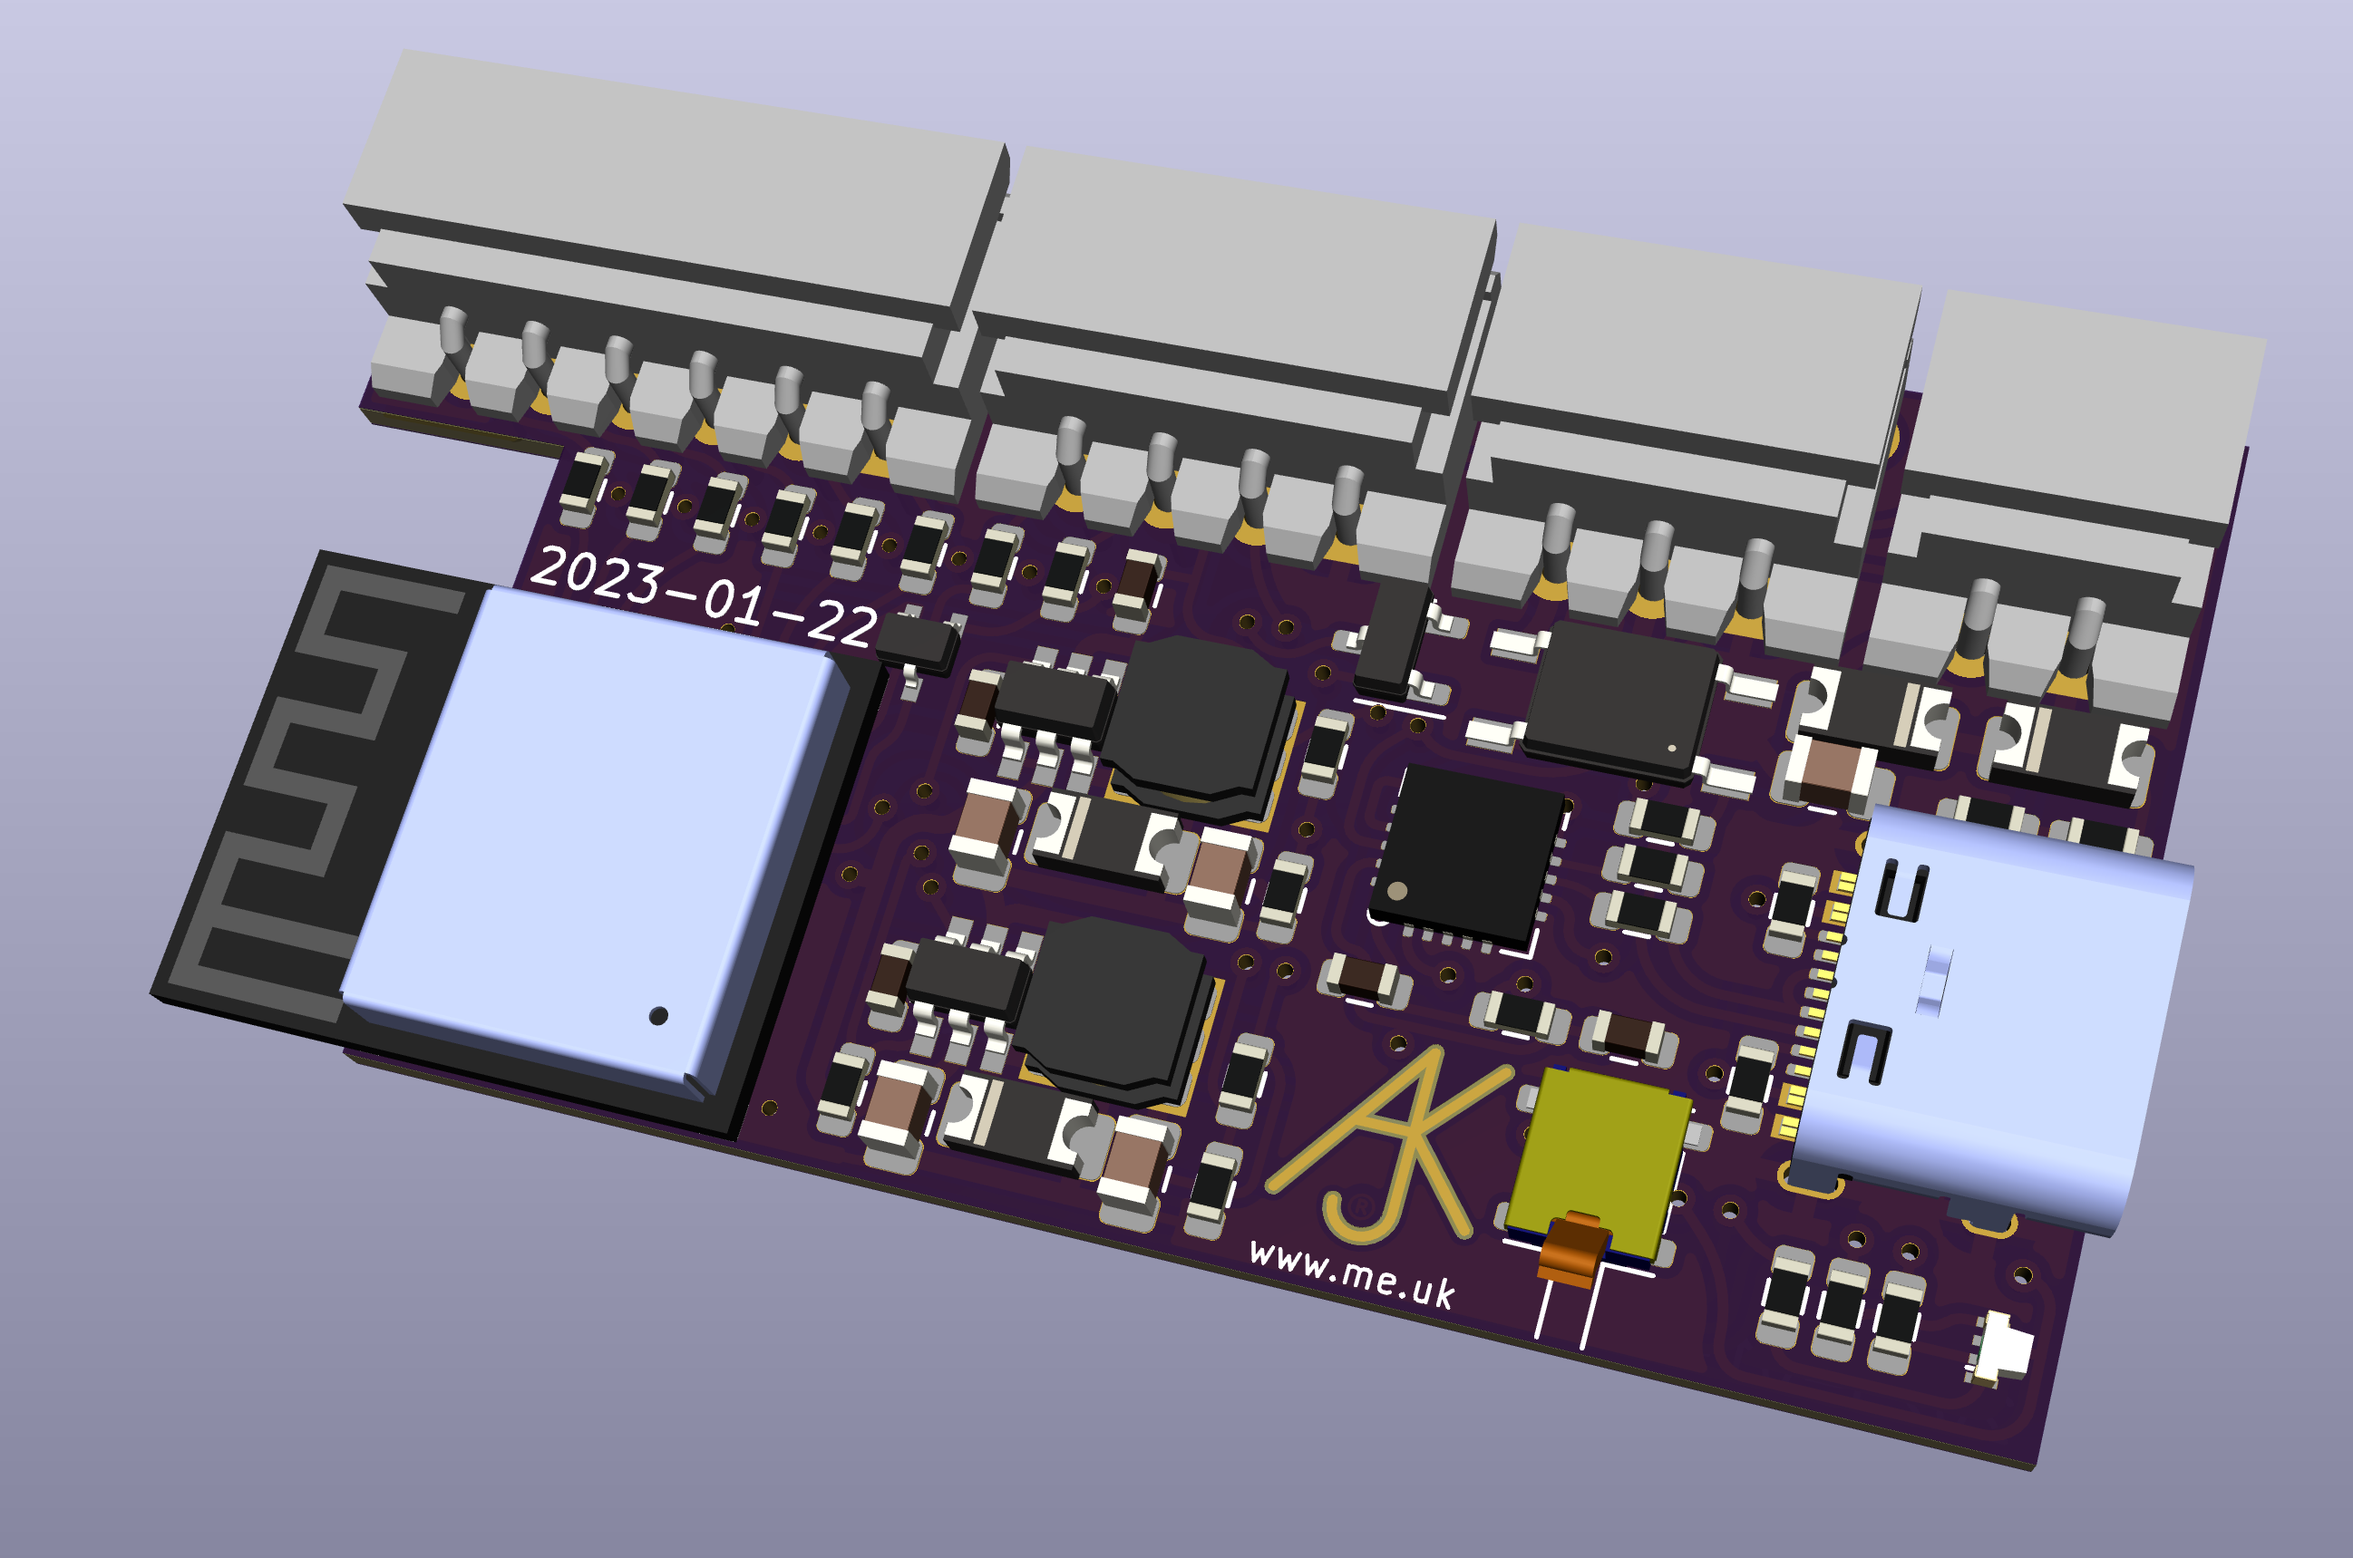
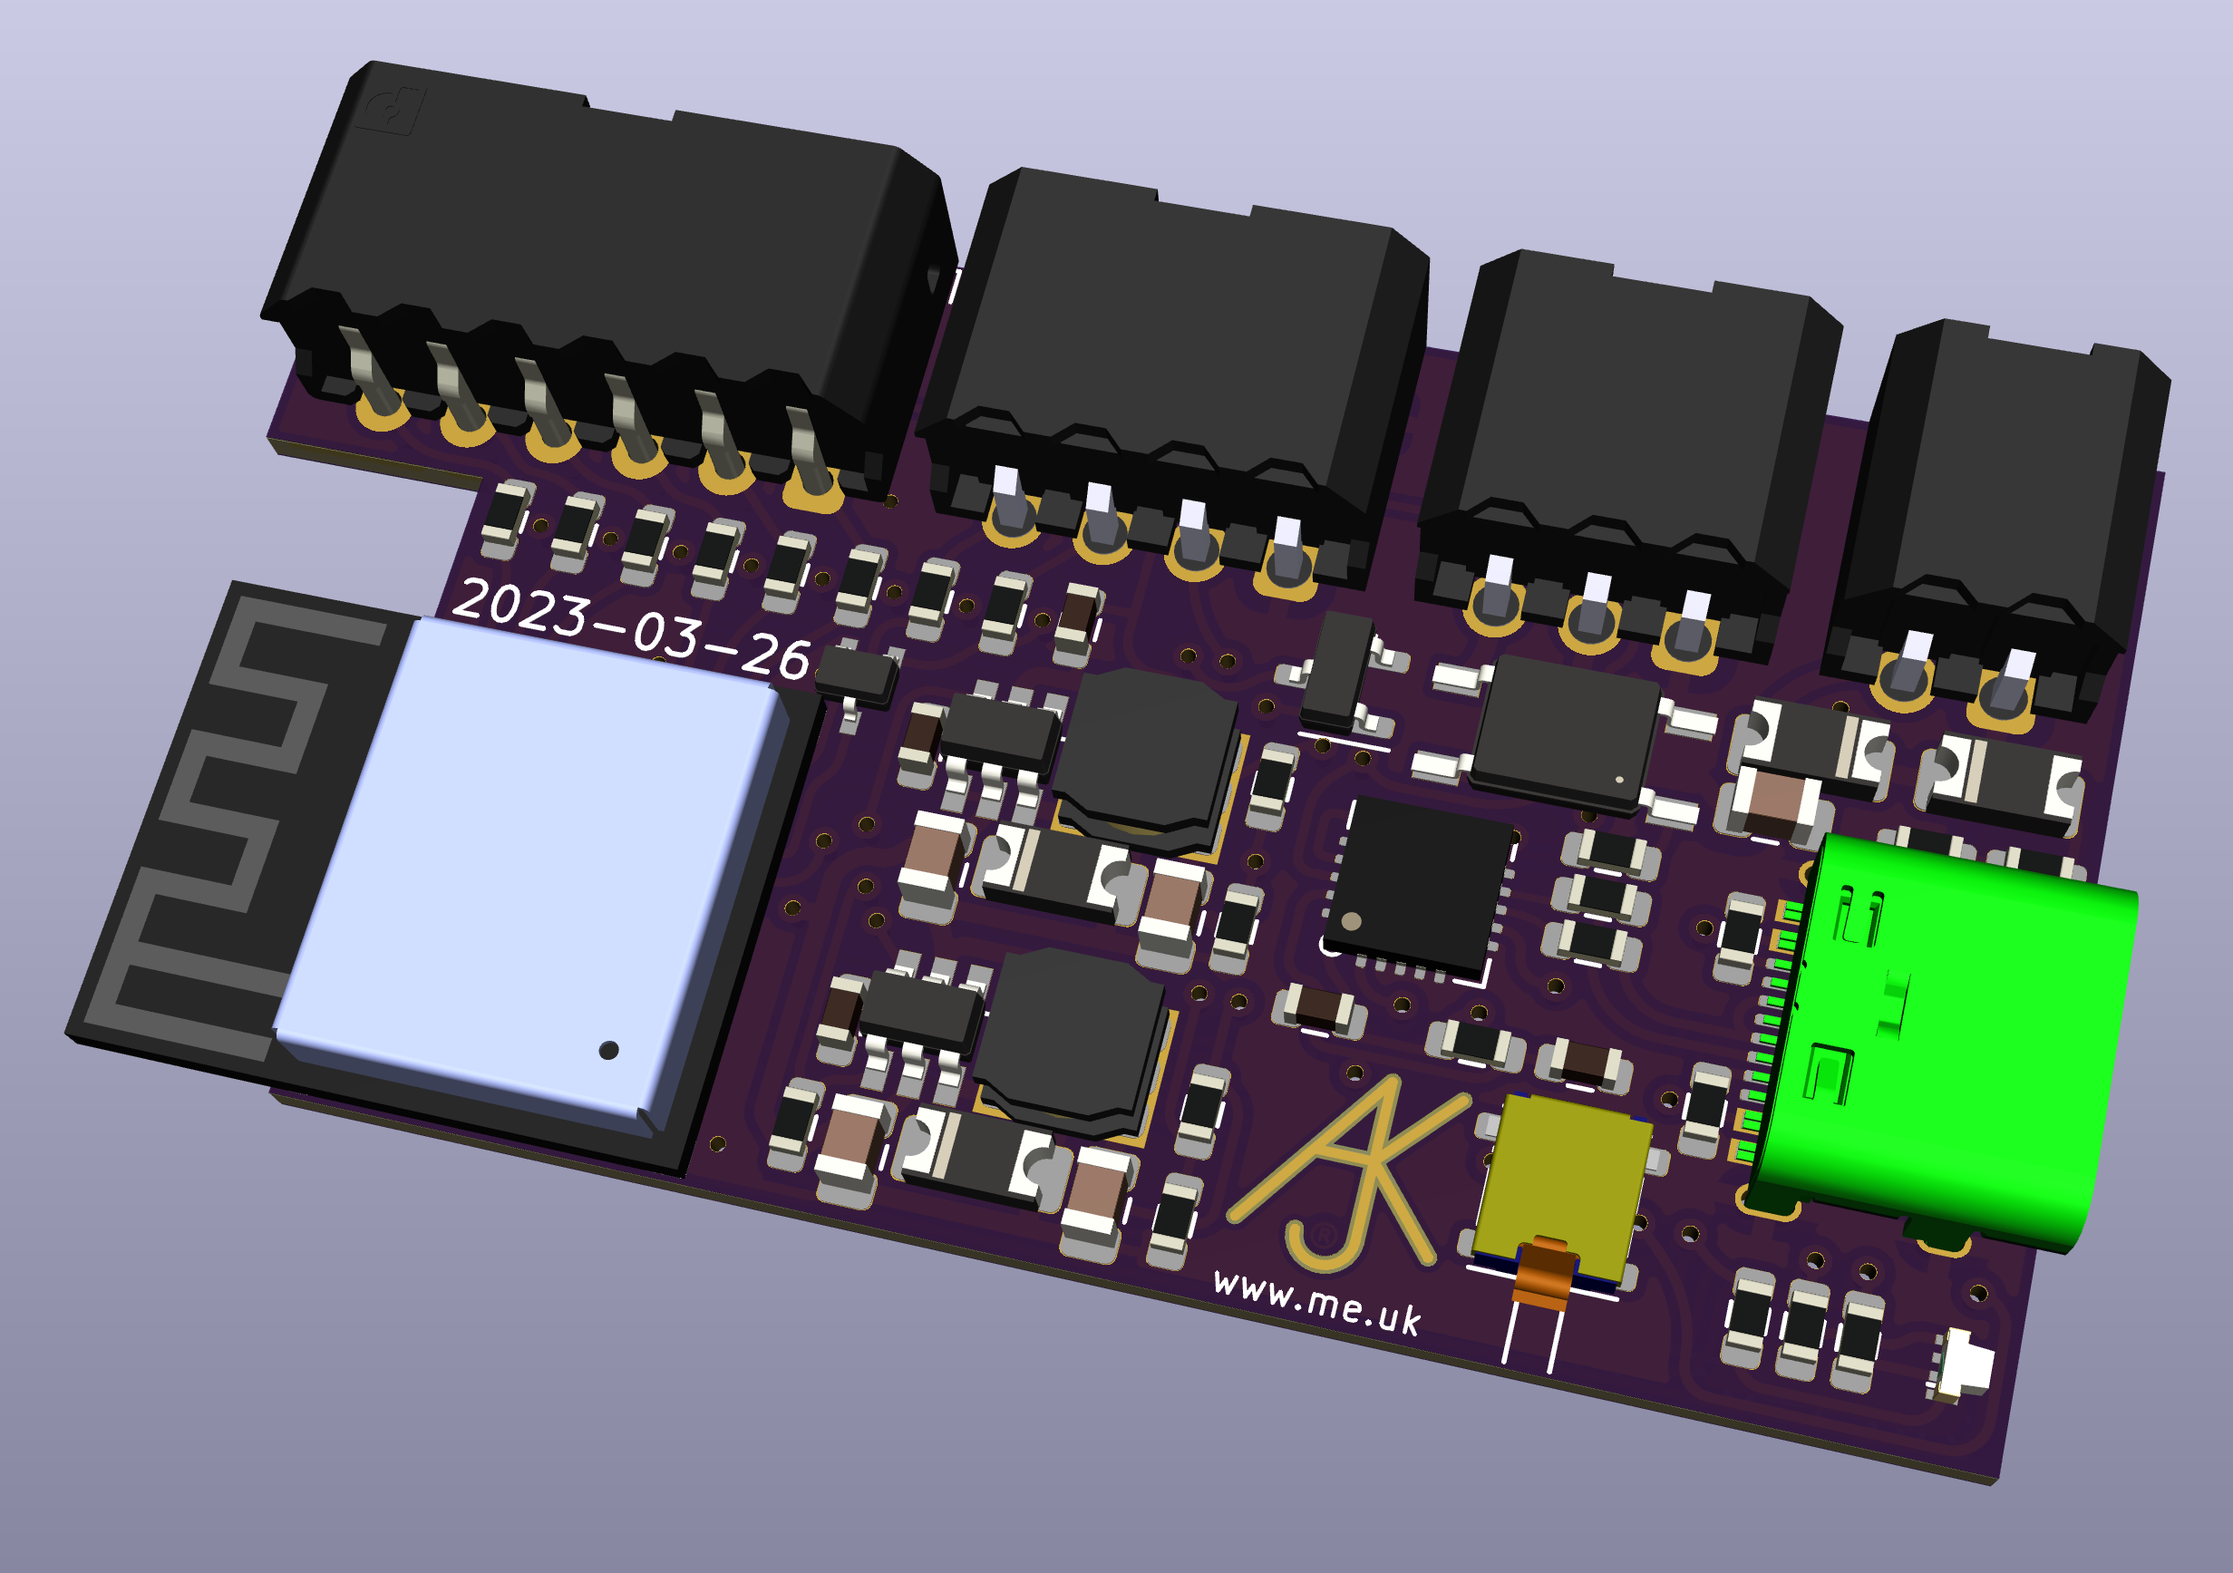
Explain connectors

diff --git a/Manuals/Module-Access.md b/Manuals/Module-Access.md
@@ -12,6 +12,8 @@ The actual contacts on the reader are 0.1" square pins, but typically they would
 
 The reader is a separate GitHub project [PN532](https://github.com/revk/ESP32-PN532).
 
+*Note: This is fitted with a 5 pin 0.1" square pin connector which can be used with either mini SPOX plug, Pheonix Contact PSTM plug, or 0.1" header as needed.*
+
 ![Round NFC reader](Round.png)
 
 ## Inside unit (Access2)
@@ -22,7 +24,7 @@ The board also has a simple RGB LED which can be used to [indicate status](Tech-
 
 ### Connectors
 
-The board is designed to work (as per the image) with mini SPOX connectors. However, as these need a special cirmp tool the board may be supplied with 0.1" headers or alternative headers with push fit connectors. Please check when ordering.
+The board is provided with 4 connectors as follows.
 
 |Connector|Meaning|
 |---------|--------|
@@ -33,12 +35,12 @@ The board is designed to work (as per the image) with mini SPOX connectors. Howe
 
 The board may have a USB-C connector as well, or may not, as this is used for programming and debug. If fitted it can be used to flash the board. If not, then there are 5 pads that can be used with the (Tasmotizer)[https://github.com/revk/Tasmotizer-PCB] board to flash.
 
-*Shown with mini SPOX connectors.*
+*Note: Older boards may be supplied with mini-SPOX connectors, which need suitable plugs and crimps. Newer boards are supplied with Pheonix Contact PTSM connectors and plugs - these accept solid core wire directly in the plug without the need for a crimp. Either board could be fitted with 0.1" square pin headers instead if needed.*
+
 ![Access2](Access2.png)
 
 ## Access3
 
 An alternative board is also available which has an additional 3 pin connector for a second solid state relay. This is slightly bigger, obviously.
 
-*Shown with PTSM connectors*
 ![Access3](Access3.png)

diff --git a/Manuals/Module-Keypad.md b/Manuals/Module-Keypad.md
@@ -10,4 +10,6 @@ The keypad then needs normal power on its screw terminals, but does not have any
 
 The board also has a simple RGB LED which can be used to [indicate status](Tech-LED.md).
 
+*Note: Whilst most modules have moved to using Pheonix Contact connectors, they are too big for the space in the keyboard, so this is supplied with a mini SPOX connector, plug and flying leads to solder to the keyboard PCB.*
+
 ![Keypad2](Keypad2.png)
